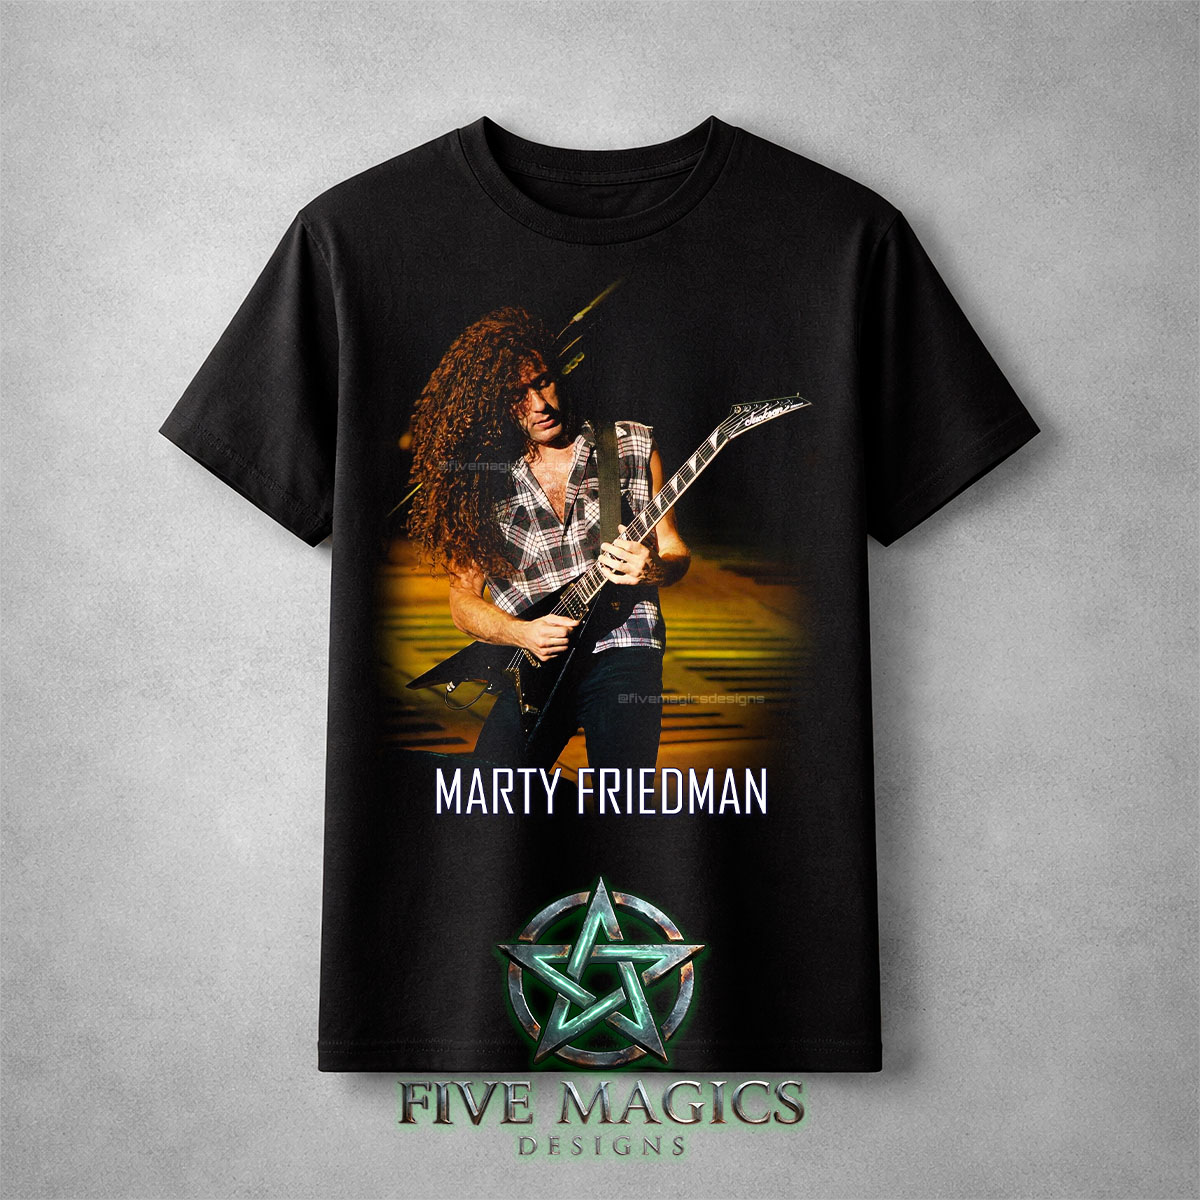
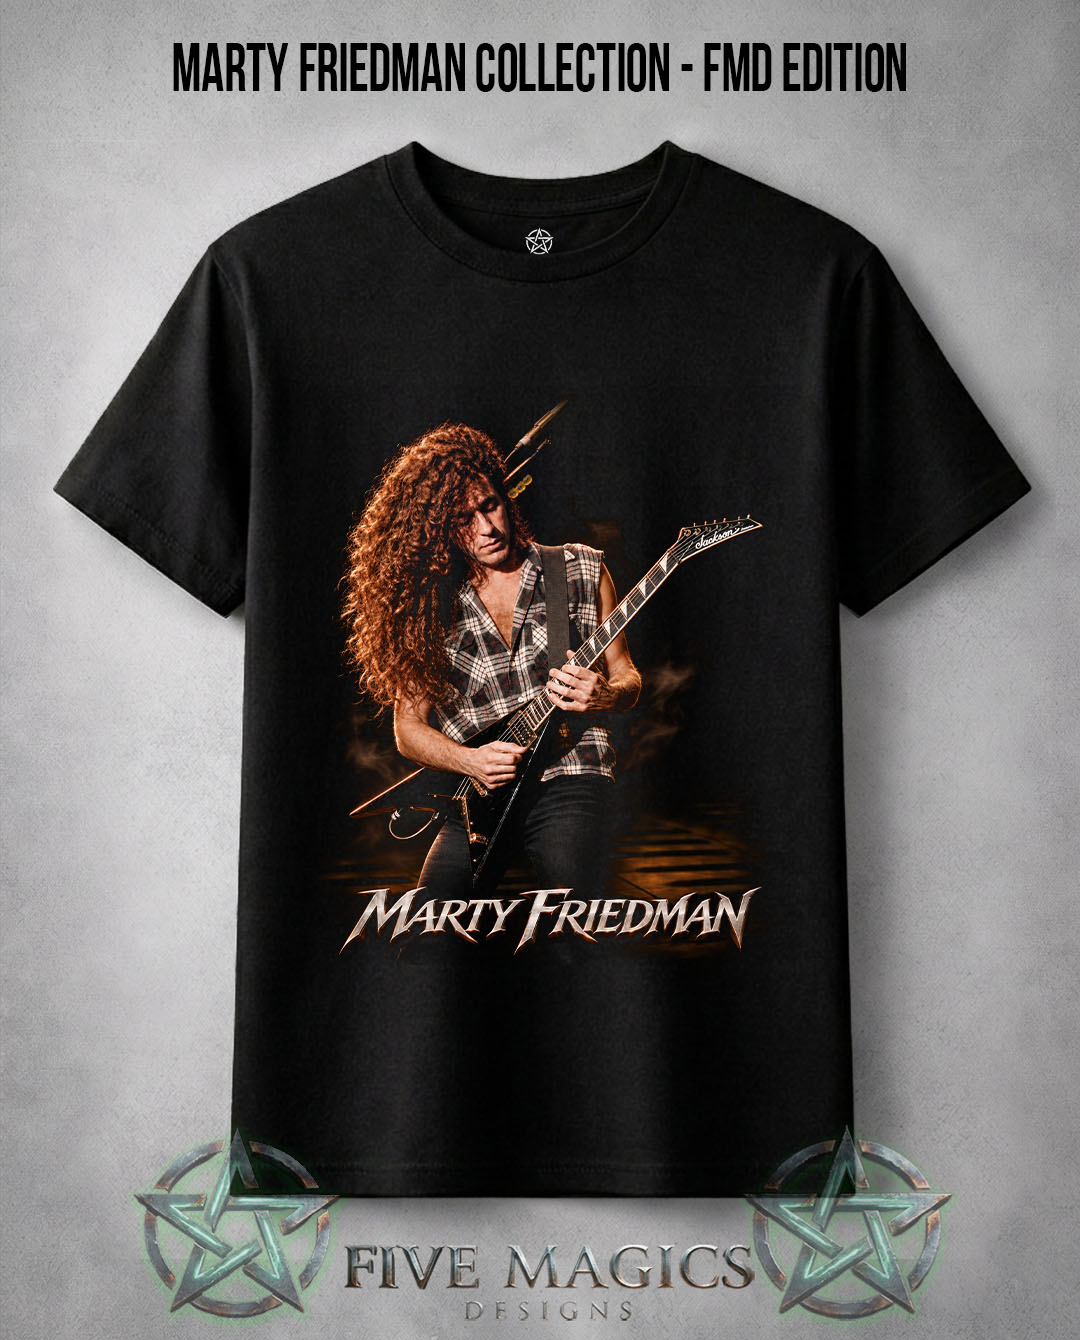
marty

diff --git a/scripts/marty-introduction-browser.test.js b/scripts/marty-introduction-browser.test.js
@@ -16,7 +16,10 @@ async function main() {
     assert.deepEqual(products.filter(p=>p.id!==7314),previous.filter(p=>p.id!==7314));
     const old = previous.find(p=>p.id===7314), current=products.find(p=>p.id===7314);
     for(let i=0;i<old.variants.length;i++){assert.equal(current.variants[i].img,old.variants[i].img);assert.equal(current.variants[i].name,old.variants[i].name);assert.equal(current.variants[i].designId,old.variants[i].designId);}
-    assert.equal(current.variants.length,old.variants.length+2);
+    assert.equal(current.variants[15].backTargetDesignId, designId);
+    assert.equal(current.variants[16].orderVariantIndex, 9);
+    const newDesigns = ['marty-friedman-retrato-1992', 'marty-friedman-camiseta-argentina', 'marty-friedman-en-vivo-luces-rojas'];
+    for (const id of newDesigns) assert.equal(current.variants.filter(v => v.designId === id).length, 1);
     const mime = { '.html': 'text/html; charset=utf-8', '.js': 'text/javascript; charset=utf-8', '.css': 'text/css', '.json': 'application/json', '.jpg': 'image/jpeg', '.png': 'image/png', '.webp': 'image/webp' };
     const server = http.createServer((req, res) => {
         try {
@@ -72,6 +75,10 @@ async function main() {
                 await send('Emulation.setDeviceMetricsOverride',{width,height:1000,deviceScaleFactor:1,mobile:width<500});
                 await send('Page.navigate',{url:origin+page});
                 await waitFor('catalogDesigns.length>0&&document.querySelectorAll(".catalog-design-card").length>0');
+                if (page === '/marty-friedman/') {
+                    assert.equal(await evaluate('catalogDesigns.filter(isCatalogDesignInScope).length'), 22);
+                    assert.equal(await evaluate('catalogDesigns.filter(d => d.front.productId === 29 && isCatalogDesignInScope(d)).length'), 4);
+                }
                 assert.equal(await evaluate(`document.querySelectorAll('.catalog-design-card[data-design-id="${designId}"]').length`),1);
                 await evaluate(`document.querySelector('.catalog-design-card[data-design-id="${designId}"] .catalog-design-card-main').click()`);
                 const refs=await evaluate('currentModalSourceRefs.map(r=>({image:r.image,role:r.role}))');
@@ -97,10 +104,28 @@ async function main() {
                 }
                 assert(await evaluate('document.documentElement.scrollWidth<=innerWidth+1'),'Overflow '+width);
                 await evaluate('closeModal(false,false);cart.clearCart()');
+                for (const id of newDesigns) {
+                    assert.equal(await evaluate(`catalogDesigns.filter(d => d.designId === '${id}').length`), 1);
+                    await evaluate(`openCatalogDesign('${id}')`);
+                    for (const color of id === 'marty-friedman-retrato-1992' ? ['negro', 'blanco'] : ['negro']) {
+                        await evaluate(`selectRemeraVariant('hombre_clasica');selectPrintMode('simple');selectColor('${color}');selectSize('M');cart.clearCart()`);
+                        await waitFor('document.querySelectorAll(".carousel-slide img")[currentSlide]?.complete&&document.querySelectorAll(".carousel-slide img")[currentSlide]?.naturalWidth>0');
+                        if (id === 'marty-friedman-retrato-1992') {
+                            const src = await evaluate('document.querySelectorAll(".carousel-slide img")[currentSlide].src');
+                            assert(src.endsWith(color === 'blanco' ? '/Marty_1992_blanca.jpg' : '/Marty_1992_negra.jpg'), src);
+                        }
+                        const order = await evaluate('({added:addToCartFromModal(),summary:cart.generateSummary()})');
+                        assert(order.added, JSON.stringify(order));
+                        assert(order.summary.includes('* Precio: $38.000'), order.summary);
+                        assert(order.summary.includes('Solo frente'), order.summary);
+                        assert(order.summary.includes(color === 'blanco' ? 'Blanca' : 'Negra'), order.summary);
+                    }
+                    await evaluate('closeModal(false,false);cart.clearCart()');
+                }
             }
         }
         assert.deepEqual(errors, []); assert.deepEqual(failedAssets, []);
-        console.log(JSON.stringify({status:'PASS',designId,views:['front','back','double'],pages:['general','marty'],widths:[390,1440],prices:{classic:[38000,45000],oversize:[41000,48000]},cartWhatsapp:true,oldVariantsPreserved:true,errors,failedAssets}));
+        console.log(JSON.stringify({status:'PASS',designId,newDesigns,martyTotal:22,portraitBothColors:true,views:['front','back','double'],pages:['general','marty'],widths:[390,1440],prices:{classic:[38000,45000],oversize:[41000,48000]},cartWhatsapp:true,oldVariantsPreserved:true,errors,failedAssets}));
     } finally {
         if (send) await send('Browser.close').catch(() => {});
         socket?.close();

diff --git a/scripts/modal-purchase-flow-browser.test.js b/scripts/modal-purchase-flow-browser.test.js
@@ -79,6 +79,7 @@ async function main() {
             {page:'/iron-maiden/',product:7041,garment:'remera_clasica',color:'negro',mode:'double',price:45000},
             {page:'/slayer/',id:'slayer-3d-fmd-south-of-heaven-original-1988',garment:'remera_clasica',color:'negro',mode:'simple',price:38000},
             {page:'/slayer/',id:'slayer-3d-fmd-south-of-heaven-original-1988',garment:'remera_clasica',color:'negro',mode:'double',price:45000},
+            {page:'/slayer/',product:7101,garment:'remera_clasica',color:'negro',mode:'double',price:45000},
             {page:'/epica/',id:'epica-retrospect',garment:'remera_clasica',color:'negro',mode:'double',price:45000}
         ];
         for(const width of [390,1440]){
@@ -108,6 +109,10 @@ async function main() {
                 await evaluate('closeModalSizeGuide()');
                 await next();await step(3);
                 await click('[data-print-mode="'+test.mode+'"]');
+                if (test.mode === 'double') {
+                    const placeholder = await evaluate('document.querySelector(".catalog-design-dorso-search input")?.placeholder');
+                    if (placeholder) assert.equal(placeholder, 'Buscar dorso por nombre');
+                }
                 if(test.back){
                     await next();await step(3);
                     assert((await evaluate('document.querySelector(".purchase-flow-error").textContent')).includes('dorso'));
@@ -121,6 +126,13 @@ async function main() {
                     await click(selector);
                 }
                 await next();await step(4);
+                assert(await evaluate(`(() => {
+                    const indicators = document.getElementById('carouselDots');
+                    const tabs = [...indicators.querySelectorAll('.carousel-variant-tab')];
+                    if (!tabs.length || !indicators.offsetParent) return true;
+                    return indicators.getBoundingClientRect().top >= document.getElementById('carousel').getBoundingClientRect().bottom - 1
+                        && tabs.every(tab => tab.getBoundingClientRect().height >= 44 && tab.scrollWidth <= tab.clientWidth + 1);
+                })()`), 'Carousel labels must be readable below the mock, not over it');
                 assert(await evaluate('document.getElementById("btnBuyNow").getBoundingClientRect().width >= document.getElementById("modalOrderSummary").getBoundingClientRect().width * .95'),'Primary purchase button width');
                 assert((await evaluate('document.getElementById("modalPrice").textContent')).includes(test.price.toLocaleString('es-AR')));
                 if(test.back){

diff --git a/marty-friedman/index.html b/marty-friedman/index.html
@@ -37,7 +37,7 @@
         function gtag(){dataLayer.push(arguments);}
         gtag('js', new Date());
         gtag('config', 'G-1H3XPM82ED');
-        window.FMD_BAND_LANDING = Object.freeze({"band":"Marty Friedman","slug":"marty-friedman","defaultGarment":"remera","defaultCollection":"","usesShownComposition":true,"usesShownCompositionGarments":[],"collections":[],"designOrder":["marty-friedman-scenes-34th-anniversary-buenos-aires-2026","marty-friedman-scenes-34th-anniversary-tour","marty-friedman-scenes-buenos-aires-2026-doble-estampa","marty-friedman-buenos-aires-2026-live","marty-friedman-scenes-1992","marty-friedman-scenes-34th-anniversary","marty-friedman-cacophony-marty-friedman-jason-becker","marty-friedman-dragons-kiss","marty-friedman-drama","marty-friedman-introduction","marty-friedman-logo-rojo","marty-friedman-simbolo","marty-friedman-band","marty-friedman-live","marty-friedman-live-smoke"],"prominentAllDesigns":null,"retiredDesignIds":[],"curatedDesignCategories":{},"sharedDesignIds":[],"sharedBands":[],"albumOrder":[],"productionNotice":"","modalBackCarouselDesignIds":[],"suppressNewBadges":false,"cardImageOverrides":{},"editorialBadges":{},"showcase":null});
+        window.FMD_BAND_LANDING = Object.freeze({"band":"Marty Friedman","slug":"marty-friedman","defaultGarment":"remera","defaultCollection":"","usesShownComposition":true,"usesShownCompositionGarments":[],"collections":[],"designOrder":["marty-friedman-scenes-34th-anniversary-buenos-aires-2026","marty-friedman-camiseta-argentina","marty-friedman-retrato-1992","marty-friedman-en-vivo-luces-rojas","marty-friedman-scenes-34th-anniversary-tour","marty-friedman-scenes-buenos-aires-2026-doble-estampa","marty-friedman-buenos-aires-2026-live","marty-friedman-scenes-1992","marty-friedman-scenes-34th-anniversary","marty-friedman-cacophony-marty-friedman-jason-becker","marty-friedman-dragons-kiss","marty-friedman-drama","marty-friedman-introduction","marty-friedman-logo-rojo","marty-friedman-simbolo","marty-friedman-band","marty-friedman-live","marty-friedman-live-smoke","cd-megadeth-1990-cte--p29","cd-megadeth-1990-rip--p29","cd-megadeth-1992-firma--p29","cd-megadeth-marty-bn--p29"],"prominentAllDesigns":null,"retiredDesignIds":[],"curatedDesignCategories":{},"sharedDesignIds":["cd-megadeth-1990-cte--p29","cd-megadeth-1990-rip--p29","cd-megadeth-1992-firma--p29","cd-megadeth-marty-bn--p29"],"sharedBands":[],"albumOrder":[],"productionNotice":"","modalBackCarouselDesignIds":[],"suppressNewBadges":false,"cardImageOverrides":{},"editorialBadges":{},"showcase":null});
 
 
     </script>

diff --git a/js/app.js b/js/app.js
@@ -5317,8 +5317,8 @@ function renderDorsoSelector() {
         customSection.style.display = choices.length ? 'none' : 'block';
         variantsGrid.classList.add('catalog-design-dorso-grid');
         variantsGrid.innerHTML = `
-            <div class="catalog-design-dorso-heading"><b>${compactSuggestions ? 'DORSOS PARA ESTE DISE&Ntilde;O' : '2. ELEG&Iacute; EL DORSO'}</b><span>Busc&aacute; por nombre, tour o c&oacute;digo. Toc&aacute; VER GRANDE para revisarlo.</span></div>
-            <label class="catalog-design-dorso-search"><span>BUSCAR DORSO</span><input type="search" placeholder="Ej: Set List, Hurac&aacute;n o 7308.V4" oninput="filterCatalogDesignBacks(this.value)" autocomplete="off"></label>
+            <div class="catalog-design-dorso-heading"><b>${compactSuggestions ? 'DORSOS PARA ESTE DISE&Ntilde;O' : '2. ELEG&Iacute; EL DORSO'}</b><span>Toc&aacute; el dorso que te guste para elegirlo. Pod&eacute;s ampliarlo con VER DORSO GRANDE.</span></div>
+            <label class="catalog-design-dorso-search"><span>BUSCAR DORSO</span><input type="search" placeholder="Buscar dorso por nombre" oninput="filterCatalogDesignBacks(this.value)" autocomplete="off"></label>
             ${recommended.length ? `<div class="catalog-design-dorso-recommended"><p><b>${isEddieGaucho || hasTourRecommendation ? 'DORSO RECOMENDADO' : 'RECOMENDADOS PARA ESTE DISE&Ntilde;O'}</b><span>${isEddieGaucho ? 'La opci&oacute;n Buenos Aires 2026 completa este dise&ntilde;o.' : hasTourRecommendation ? 'Opciones pensadas para completar los dise&ntilde;os del tour.' : 'Opciones creadas para combinar con este frente.'}</span></p><div>${recommended.map(renderChoice).join('')}</div></div>` : ''}
             ${commemorative.length && !compactSuggestions ? `<div class="catalog-design-dorso-recommended catalog-design-dorso-commemorative"><p><b>DORSOS CONMEMORATIVOS · ARGENTINA 2026</b><span>Combinables con este frente.</span></p><div>${commemorative.map(renderChoice).join('')}</div></div>` : ''}
             ${historical.length ? (collapseHistoricalBacks

diff --git a/js/band-archives-config.js b/js/band-archives-config.js
@@ -1950,8 +1950,17 @@
             showSizeGuide: true,
             catalogNoteTitle: 'REMERAS HECHAS A PEDIDO',
             catalogNoteCopy: 'Eleg\u00ed tu dise\u00f1o, talle y estampa: solo frente o frente y dorso.',
+            sharedDesignIds: [
+                'cd-megadeth-1990-cte--p29',
+                'cd-megadeth-1990-rip--p29',
+                'cd-megadeth-1992-firma--p29',
+                'cd-megadeth-marty-bn--p29'
+            ],
             designOrder: [
                 'marty-friedman-scenes-34th-anniversary-buenos-aires-2026',
+                'marty-friedman-camiseta-argentina',
+                'marty-friedman-retrato-1992',
+                'marty-friedman-en-vivo-luces-rojas',
                 'marty-friedman-scenes-34th-anniversary-tour',
                 'marty-friedman-scenes-buenos-aires-2026-doble-estampa',
                 'marty-friedman-buenos-aires-2026-live',
@@ -1965,7 +1974,11 @@
                 'marty-friedman-simbolo',
                 'marty-friedman-band',
                 'marty-friedman-live',
-                'marty-friedman-live-smoke'
+                'marty-friedman-live-smoke',
+                'cd-megadeth-1990-cte--p29',
+                'cd-megadeth-1990-rip--p29',
+                'cd-megadeth-1992-firma--p29',
+                'cd-megadeth-marty-bn--p29'
             ],
             garments: [
                 { key: 'remera', title: 'REMERAS', price: 'Frontal $38.000 \u00b7 Doble $45.000', image: '/images/musicians/Marty_Friedman/TOUR 4.jpg', alt: 'Remera Marty Friedman Scenes 34th Anniversary Buenos Aires 2026' }

diff --git a/styles/main.css b/styles/main.css
@@ -8277,19 +8277,23 @@ header {
     background: var(--rust);
 }
 
-body.band-landing-page[data-band="Iron Maiden"] #modal.catalog-design-modal .carousel-indicators {
-    bottom: 14px;
-    max-width: calc(100% - 84px);
+#modal.catalog-design-modal .carousel-indicators {
+    position: static;
+    transform: none;
+    padding: 10px;
+    background: #080808;
     flex-wrap: wrap;
     justify-content: center;
     gap: 6px;
     z-index: 5;
 }
 
-body.band-landing-page[data-band="Iron Maiden"] #modal.catalog-design-modal .carousel-variant-tab {
+#modal.catalog-design-modal .carousel-variant-tab {
     width: auto;
     height: auto;
-    min-height: 34px;
+    min-height: 44px;
+    max-width: 100%;
+    overflow-wrap: anywhere;
     padding: 7px 10px;
     border: 1px solid rgba(255,255,255,.45);
     border-radius: 999px;
@@ -8299,7 +8303,7 @@ body.band-landing-page[data-band="Iron Maiden"] #modal.catalog-design-modal .car
     cursor: pointer;
 }
 
-body.band-landing-page[data-band="Iron Maiden"] #modal.catalog-design-modal .carousel-variant-tab.active {
+#modal.catalog-design-modal .carousel-variant-tab.active {
     border-color: #8fc7ee;
     color: #07111a;
     background: #8fc7ee;
